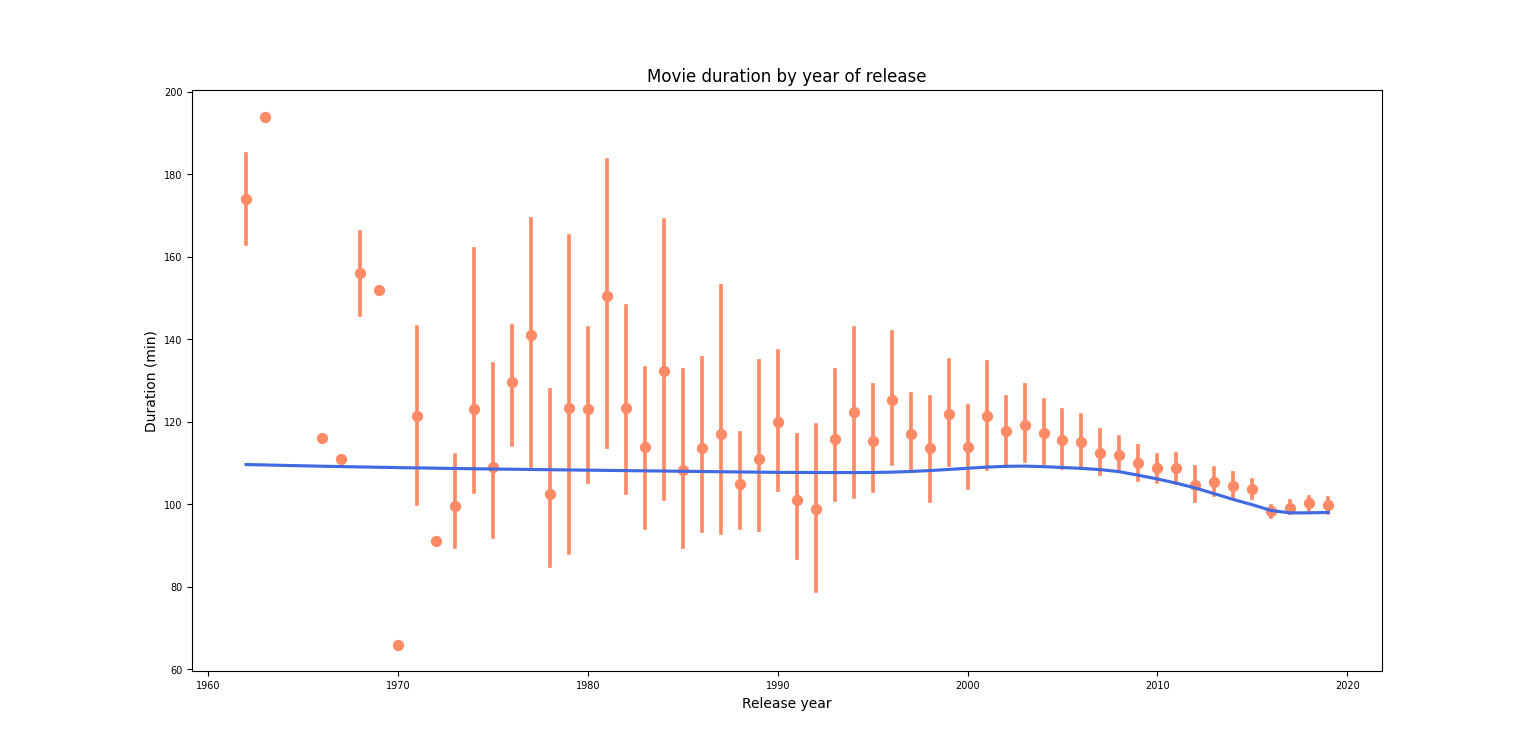
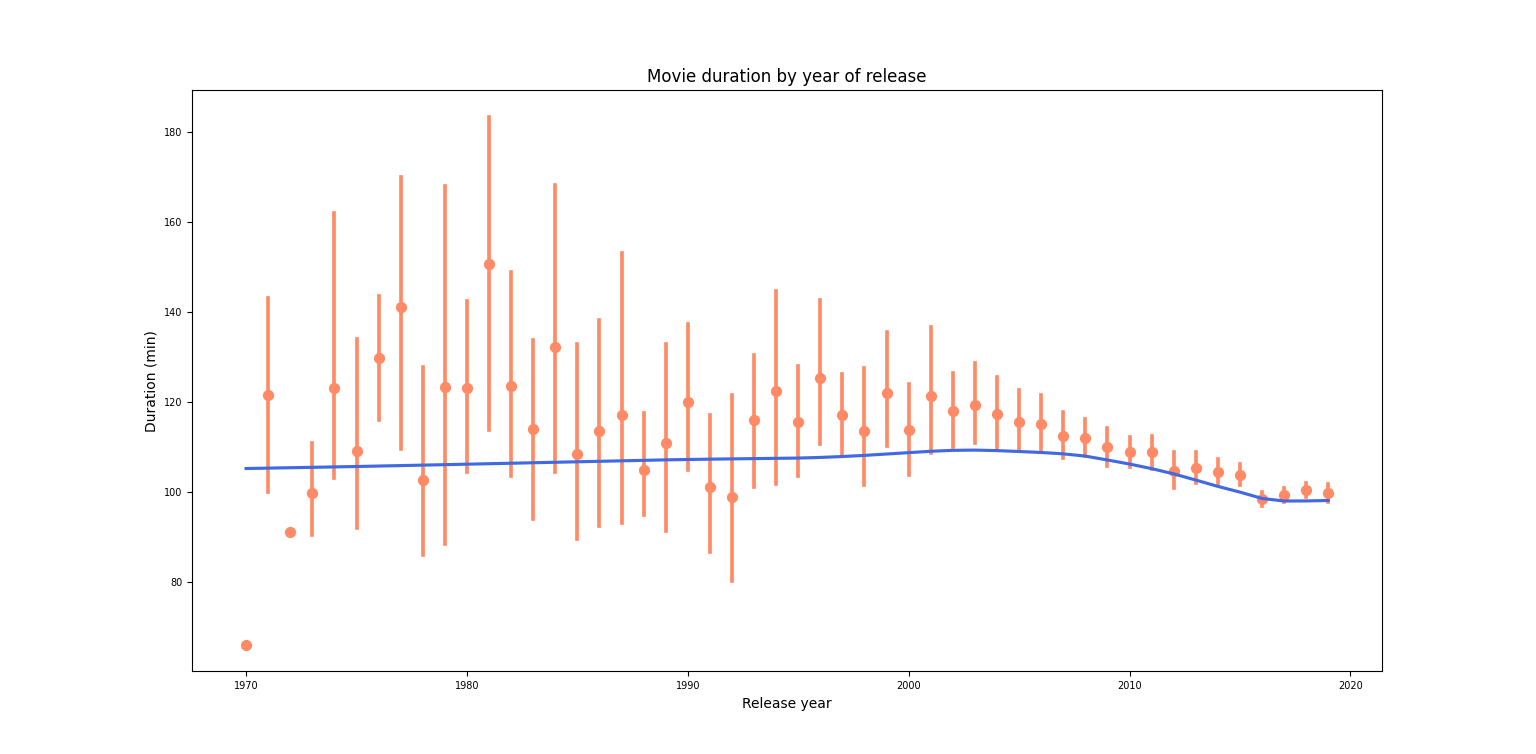
refilter_updateimgs

diff --git a/code/duration_stats.py b/code/duration_stats.py
@@ -128,6 +128,10 @@ genres=dur_yea['genre'].value_counts()
 print(genres)
 print(len(dur_yea['genre'].unique()))
 
+#Check period of time covered--> 50 years
+data_year=dur_yea['release_year'].unique()
+print(len(data_year))
+
 #Plot scatter  with genre as hue.
 palette=sn.color_palette("colorblind",n_colors=14)
 fig3=sn.scatterplot(dur_yea,x='release_year',y='duration',palette=palette,hue='genre',legend =False)
@@ -139,13 +143,11 @@ plt.show()
 print(dur_yea['duration'].describe())
 
 
-fig4=sn.regplot(dur_yea,x='release_year',y='duration',x_estimator=np.mean,color=(255/255, 138/255, 101/255,0.8),line_kws={'color':'royalblue'})
+#Plot data with a linear regression model, specifying estimator and including versions with locally weighted estimates (lowess).
+fig4=sn.regplot(dur_yea,x='release_year',y='duration',color=(255/255, 138/255, 101/255,0.8),line_kws={'color':'royalblue'},scatter=True,lowess=True)
 fig4.set(xlabel="Release year",ylabel="Duration (min)")
 fig4.set(title="Movie duration by year of release")
 fig4.tick_params(labelsize=7)
 plt.show()
 
-#Check period of time covered--> 50 years
-data_year=dur_yea['release_year'].unique()
-print(len(data_year))
 
